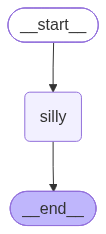
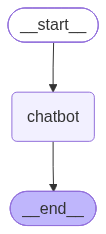
use of tool and bind them with graph nodes.

Changed region(s): [[0.0849, 0.3889, 0.7358, 0.6282], [0.7075, 0.3889, 0.9057, 0.6282]]

diff --git a/src/lang_chain_ecosystem/day2_nodes_edges/llm_translator_graph.py b/src/lang_chain_ecosystem/day2_nodes_edges/llm_translator_graph.py
@@ -1,0 +1,103 @@
+from .translator_state import State
+from dotenv import load_dotenv
+from langchain_openai import ChatOpenAI
+from langchain_core.tools import tool
+from ..client import loadChatOpenAI
+from pathlib import Path
+from langgraph.graph import StateGraph, START, END
+from langchain_community.tools import GoogleSerperRun
+from langchain_community.utilities import GoogleSerperAPIWrapper
+from langgraph.prebuilt import ToolNode, tools_condition
+
+load_dotenv(override=True)
+
+llm = loadChatOpenAI()
+
+
+# A TOOL
+@tool
+def send_notification_tool(text: str) -> str:
+    """Write you logic to send notifications"""
+    return "Notification sent."
+
+
+search = GoogleSerperRun(api_wrapper=GoogleSerperAPIWrapper())
+tools = [search, send_notification_tool]
+llm_with_tools = llm.bind_tools(tools)
+
+
+def sendNotifications() -> None:
+    builder = StateGraph(State)
+    builder.add_node("chatbot", chatbot_node)
+    builder.add_node("tools", ToolNode(tools))
+
+    builder.add_edge(START, "chatbot")
+    builder.add_conditional_edges("chatbot", tools_condition)
+    builder.add_edge("tools", "chatbot")
+
+    graph = builder.compile()
+
+    result = graph.invoke(
+        {
+            "messages": [
+                {
+                    "role": "user",
+                    "content": "Use your search tool to tell me What is LLM, in one sentence and send me a push notification.",
+                }
+            ]
+        }
+    )
+    # result = graph.invoke(
+    #     {
+    #         "messages": [
+    #             {
+    #                 "role": "user",
+    #                 "content": "Use your search tool to give me a list of websites, from India, from where I can find price of Black Pepper "
+    #                 "and send me a push notification.",
+    #             }
+    #         ]
+    #     }
+    # )
+    print(">>>", result["messages"][-1].content)
+
+
+# A NODE
+def chatbot_node(state: State) -> None:
+    return {"messages": [llm_with_tools.invoke(state["messages"])]}
+
+
+def callTranslator() -> None:
+    builder = StateGraph(State)
+
+    builder.add_node("chatbot", chatbot_node)
+    builder.add_node("tools", ToolNode(tools))
+    builder.add_node("translator", translator_node)
+
+    builder.add_edge(START, "chatbot")
+    builder.add_conditional_edges(
+        "chatbot", tools_condition, {"tools": "tools", END: "translator"}
+    )
+    builder.add_edge("tools", "chatbot")
+    builder.add_edge("translator", END)
+
+    graph = builder.compile()
+
+    result = graph.invoke(
+        {
+            "messages": [
+                {
+                    "role": "user",
+                    "content": "Use your search tool to tell me What is LLM, in one sentence and send me a push notification.",
+                }
+            ]
+        }
+    )
+    print(">>>", result["messages"][-1].content)
+    print(">>>", result["spanish"])
+
+
+# A NODE
+def translator_node(state: State) -> dict:
+    last = state["messages"][-1].content
+    prompt = f"Translate this in Spanish, replying with the translation only:\n\n{last}"
+    return {"spanish": llm.invoke(prompt).content}

diff --git a/src/lang_chain_ecosystem/day2_nodes_edges/llm_graph.py b/src/lang_chain_ecosystem/day2_nodes_edges/llm_graph.py
@@ -1,0 +1,43 @@
+import os
+from dotenv import load_dotenv
+from langchain_openai import ChatOpenAI
+from langchain_core.tools import tool
+from ..client import loadChatOpenAI
+from .state import State
+import subprocess
+import sys
+from pathlib import Path
+from langgraph.graph import StateGraph, START, END
+
+load_dotenv(override=True)
+
+
+def callLlmGraph() -> None:
+    builder = StateGraph(State)
+    builder.add_node("chatbot", chatbot_node)
+    builder.add_edge(START, "chatbot")
+    builder.add_edge("chatbot", END)
+    graph = builder.compile()
+
+    # save_and_open_graph_image(graph)
+
+    result = graph.invoke(
+        {"message": [{"role": "user", "content": "What is LLM, in one sentence?"}]}
+    )
+    print(">>>", result["message"][-1].content)
+
+
+def chatbot_node(state: State) -> None:
+    llm = loadChatOpenAI()
+    return {"message": [llm.invoke(state["message"])]}
+
+
+def save_and_open_graph_image(graph, filename: str = "simple_graph.png") -> None:
+    graph_path = Path(__file__).with_name(filename)
+    graph_path.write_bytes(graph.get_graph().draw_mermaid_png())
+    if sys.platform == "darwin":
+        subprocess.run(["open", str(graph_path)])
+    elif sys.platform == "win32":
+        subprocess.run(["start", "", str(graph_path)], shell=True)
+    else:
+        subprocess.run(["xdg-open", str(graph_path)])

diff --git a/src/lang_chain_ecosystem/day2_nodes_edges/translator_state.py b/src/lang_chain_ecosystem/day2_nodes_edges/translator_state.py
@@ -1,0 +1,8 @@
+from typing import Annotated
+from typing_extensions import TypedDict
+from langgraph.graph.message import add_messages
+
+
+class State(TypedDict):
+    messages: Annotated[list, add_messages]
+    spanish: str

diff --git a/src/lang_chain_ecosystem/day2_nodes_edges/__main__.py b/src/lang_chain_ecosystem/day2_nodes_edges/__main__.py
@@ -1,4 +1,9 @@
 from .simple_graph import runGraph
+from .llm_graph import callLlmGraph
+from .llm_translator_graph import sendNotifications, callTranslator
 
 if __name__ == "__main__":
-    runGraph()
+    # runGraph()
+    # callLlmGraph()
+    sendNotifications()
+    # callTranslator()

diff --git a/src/lang_chain_ecosystem/day2_nodes_edges/simple_graph.py b/src/lang_chain_ecosystem/day2_nodes_edges/simple_graph.py
@@ -49,7 +49,7 @@ def runGraph() -> None:
 
     graph = builder.compile()
 
-    save_and_open_graph_image(graph)
+    # save_and_open_graph_image(graph)
 
     result = graph.invoke({"message": [{"role": "user", "content": "say something"}]})
-    print(result["message"][-1].content)
+    print(">>>", result["message"][-1].content)